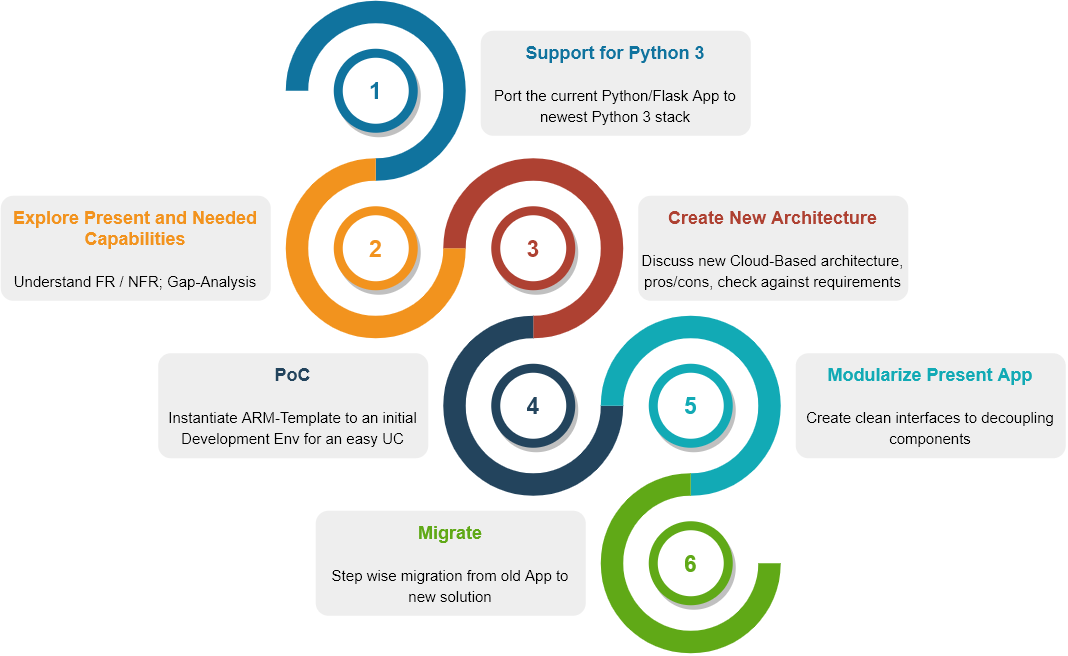
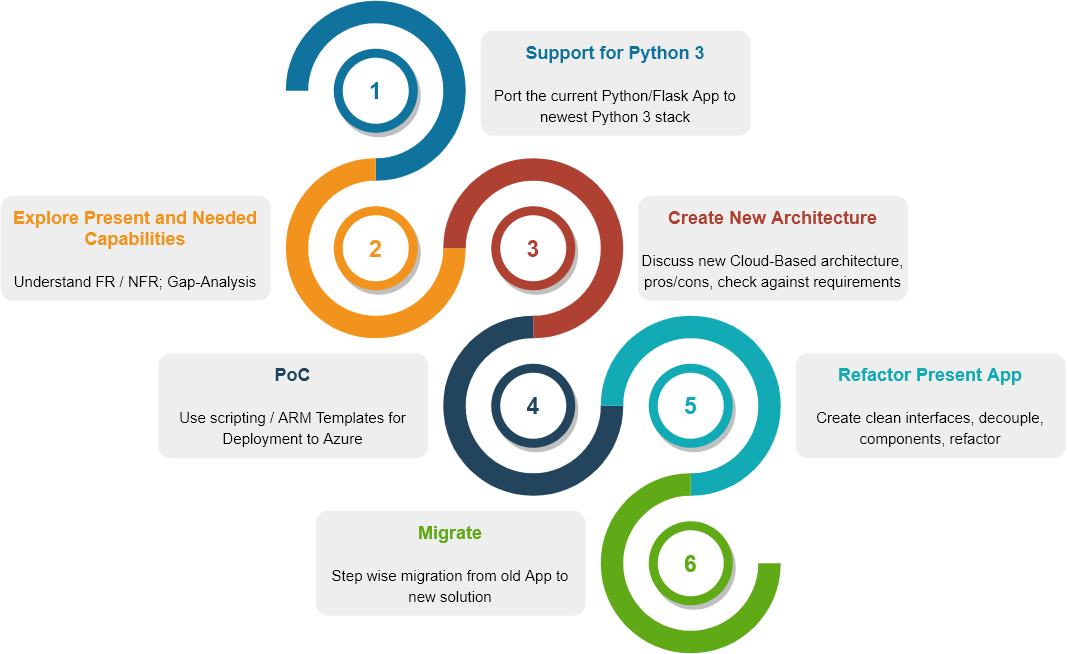
Update generated slides

diff --git a/presentations/notejam.html b/presentations/notejam.html
@@ -51,7 +51,7 @@
         <div class="slides">
             <section >
 <section >
-<img src="./images/notejam/assignment.png" alt="Assignement" style="width:1000px;">  
+<img src="./images/notejam/assignment.png" alt="Assignment" style="width:1000px;">  
 </section>
 <section >
 <h3>Scenario</h3>
@@ -68,12 +68,22 @@ This is their <a>first attempt</a> to getting to know with <a>non-on-prem enviro
 </section>
 <section >
 <section >
-<h3>Actual Architecture</h3>
+<h3>Actual Architecture: Monolithic</h3>
 <img src="./images/notejam/statusquo.png" alt="Actual Architecture" style="width:1000px;"> 
 <ul>
-<li>Monolithic</li>
-<li>Pros: Easy to develop and deploy</li>
-<li>Cons: Not scalable, high coupling of modules, hard to develop by large team, hard to extend</li>
+<li>
+Pros
+<ul>
+<li>Easy to develop and deploy</li>
+</ul>
+</li>
+<li>
+Cons
+<ul>
+<li>Not truely scalable</li>
+<li>Hard to develop by a large team</li>
+</ul>
+</li>
 </ul>
 </section>
 <section >
@@ -85,18 +95,25 @@ This is their <a>first attempt</a> to getting to know with <a>non-on-prem enviro
 </section>
 </section>
 <section >
-<section >
 <h3>Business Requirements</h3>
 <ol>
 <li><a>Scalability:</a> The Application must serve variable amount of traffic</li>
-<li><a>Recoverability:</a> Preserve the notes up to 3 years, being able to recover them it if needed</li>
 <li><a>Resiliency:</a> in case of datacenter failures, recovery to any regions supported by the cloud provider</li>
-<li><a>Resiliency:</a> Concurrent development / deployment by a team of &gt; 100 developers</li>
+<li><a>Modifiability:</a> Concurrent development / deployment by a team of &gt; 100 developers</li>
 <li>
-Support of development process by use of separated environments (development,
+<a>Installability:</a>Support of development process by use of separated environments (development,
 testing, production)
 </li>
-<li>Monitoring of relevant metrics and logs from the infrastructure for quality assurance and security purposes.</li>
+<li><a>Analysability :</a> Monitoring of relevant metrics and logs from the infrastructure for quality assurance and security purposes.</li>
+</ol>
+</section>
+<section >
+<section >
+<h3>Additionally Identified Business Requirements</h3>
+<ol>
+<li><a>Confidentiality:</a> Every user should only see its notes.</li>
+<li><a>Testability:</a> The correct functionality should be asserted on different levels (From component to system level).</li>
+<li>Not clear: "Preserve the notes up to 3 years, being able to recover them it if needed" (What means "recover"? Is it an archiving functionality?)</li>
 </ol>
 </section>
 <section >
@@ -104,12 +121,119 @@ testing, production)
 <a href="https://iso25000.com/index.php/en/iso-25000-standards/iso-25010">
 <img src="./images/notejam/notejam-Quality.png" alt="Quality" style="border: none; background-color:transparent; width: 1000px;">
 </a>
-<p><a href="https://docs.microsoft.com/en-us/azure/architecture/patterns/">https://docs.microsoft.com/en-us/azure/architecture/patterns/</a></p>
 </section>
 </section>
 <section >
 <h3>Roadmap</h3>
 <img src="./images/notejam/notejam-Roadmap.png" alt="Roadmap" style="border: none; background-color:transparent; width: 1000px;">
+</section>
+<section >
+<h3>Support for Python 3</h3>
+<ul>
+<li>All relevant modules where ported</li>
+<li><a href="https://github.com/komarserjio/notejam/pull/97">PR</a> was created</li>
+</ul>
+</section>
+<section >
+<h3>Explore Present and Needed Capabilities</h3>
+<ul>
+<li>Assumption: The <a href="#/2">Business Requirements</a> are complete</li>
+<li><a href="http://127.0.0.1:5000/signin/?next=%2F">Local deployment of the present solution</a> for exploring and finding gaps</li>
+</ul>
+</section>
+<section >
+<section >
+<h3>Architecture</h3>
+<img src="./images/notejam/notejam-Architecture.png" alt="Quality" style="border: none; background-color:transparent; width: 1000px;">
+</section>
+<section >
+<h3>Components</h3>
+<ul>
+<li>
+AAD B2C
+<ul>
+<li>Directory service that leverages identity stores outside of your company.</li>
+<li>Authentication service</li>
+<li>Alternative to the burden of having to manage authentication and account details yourself</li>
+</ul>
+</li>
+<li>
+Azure Application Gateway
+<ul>
+<li>Web traffic load balancer</li>
+<li>Routing</li>
+<li>SSL/TLS termination</li>
+<li>WAF (centralized protection of your web applications from common exploits and vulnerabilities)</li>
+</ul>
+</li>
+<li>Azure Application Service with autoscaling capabilities (stateless)</li>
+<li>Cosmos DB (no need for transformations or complex object to relational mapping layer, thus promoting rapid development, designed for multi-tenancy)</li>
+</ul>
+</section>
+<section >
+<h3>Disaster Recovery</h3>
+<ul>
+<li>For DR use a smaller tier App Service plan configured in the secondary region, which autoscales when a failover occurs (Configuration in the Application Gateway).</li>
+<li>Define recovery time objective (RTO), the time required for an application to fully recover.</li>
+<li>Define recovery point objective (RPO), which is the maximum period of recent data updates the application can tolerate losing when recovering after a disruptive event (the time period of updates that you might afford to lose).</li>
+<li>This has a direct impact on the <a href="https://docs.microsoft.com/en-us/azure/cosmos-db/consistency-levels">consistency level and replication mode</a></li>
+</ul>
+</section>
+<section >
+<h3>Pendants to Azure Components</h3>
+<p>As an alternative to the Azure Solution, also Linux-Container-Based Solution can be used (and deployed to Azure).</p>
+<ul>
+<li>Load Blancer/Reverse Proxy: NGINX is a free, open-source, high-performance HTTP server and reverse proxy, as well as an IMAP/POP3 proxy server. NGINX is known for its high performance, stability, rich feature set, simple configuration, and low resource consumption. It forwards the requests to the application server.</li>
+<li><p>Application Server: Unicorn is a WSGI server that handles HTTP requests and routes them to any python application that is <a href="https://en.wikipedia.org/wiki/Web_Server_Gateway_Interface">WSGI</a>-compliant, such as Flask.</p></li>
+</ul>
+</section>
+</section>
+<section >
+<h3>PoC (only the first step...)</h3>
+<p><a href="https://notejamazure.azurewebsites.net">NoteJam on Azure</a>
+Deployed by a three-line script:</p>
+<table class="pre"><tr><td class="lines"><pre class="fssnip"><span class="l">1: </span>
+<span class="l">2: </span>
+<span class="l">3: </span>
+</pre></td>
+<td class="snippet"><pre class="fssnip highlighted"><code lang="fsharp"><span class="i">az</span> <span class="i">group</span> <span class="i">create</span> <span class="o">..</span><span class="o">.</span>
+<span class="i">az</span> <span class="i">appservice</span> <span class="i">plan</span> <span class="i">create</span> <span class="o">..</span><span class="o">.</span>
+<span class="i">az</span> <span class="i">webapp</span> <span class="i">create</span> <span class="o">..</span><span class="o">.</span>
+</code></pre></td>
+</tr>
+</table>
+<p>or a single, less customizable command...</p>
+<table class="pre"><tr><td class="lines"><pre class="fssnip"><span class="l">1: </span>
+</pre></td>
+<td class="snippet"><pre class="fssnip highlighted"><code lang="fsharp"><span class="i">az</span> <span class="i">webapp</span> <span class="i">up</span> <span class="o">..</span><span class="o">.</span>
+</code></pre></td>
+</tr>
+</table>
+<p>Good basis for further refactoring, building CI/CD Pipeline, etc.</p>
+</section>
+<section data-background="images/notejam/notejam-Architecture.png">
+<h3><span style="color:black">Discussion</span></h3>
+<h4><span style="color:black">Scalability</span></h4>
+<h4><span style="color:black">Resiliency</span></h4>
+<h4><span style="color:black">Modifiability</span></h4>
+<h4><span style="color:black">Installability</span></h4>
+<h4><span style="color:black">Analysability</span></h4>
+<h4><span style="color:black">Confidentiality</span></h4>
+<h4><span style="color:black">Testability</span></h4>
+</section>
+<section >
+<h3>References</h3>
+<ul>
+<li><a href="https://docs.microsoft.com/en-us/azure/architecture/best-practices/auto-scaling">Scaling - Azure Best Practices</a></li>
+<li><a href="https://docs.microsoft.com/en-us/azure/application-gateway/overview">Application Gateway</a></li>
+<li><a href="https://docs.microsoft.com/en-us/azure/architecture/patterns/">Azure Cloud Patterns</a></li>
+<li><a href="https://docs.microsoft.com/en-us/azure/cosmos-db/consistency-levels-tradeoffs">Consistency, availability, and performance tradeoffs</a></li>
+<li><a href="https://docs.microsoft.com/en-us/azure/architecture/framework/resiliency/backup-and-recovery">Backup and disaster recover for Azure applications</a></li>
+<li><a href="https://docs.microsoft.com/en-us/azure/application-gateway/configure-web-app-portal">Configure App Service with Application Gateway</a></li>
+<li><a href="https://docs.microsoft.com/en-us/azure/azure-monitor/overview">Azure Monitor</a></li>
+<li><a href="http://www.patricksoftwareblog.com/how-to-configure-nginx-for-a-flask-web-application/">NGINX with Flask</a></li>
+<li><a href="https://stackshare.io/stackups/gunicorn-vs-microsoft-azure">Gunicorn vs Microsoft Azure</a></li>
+</ul>
 </section>
 
 
